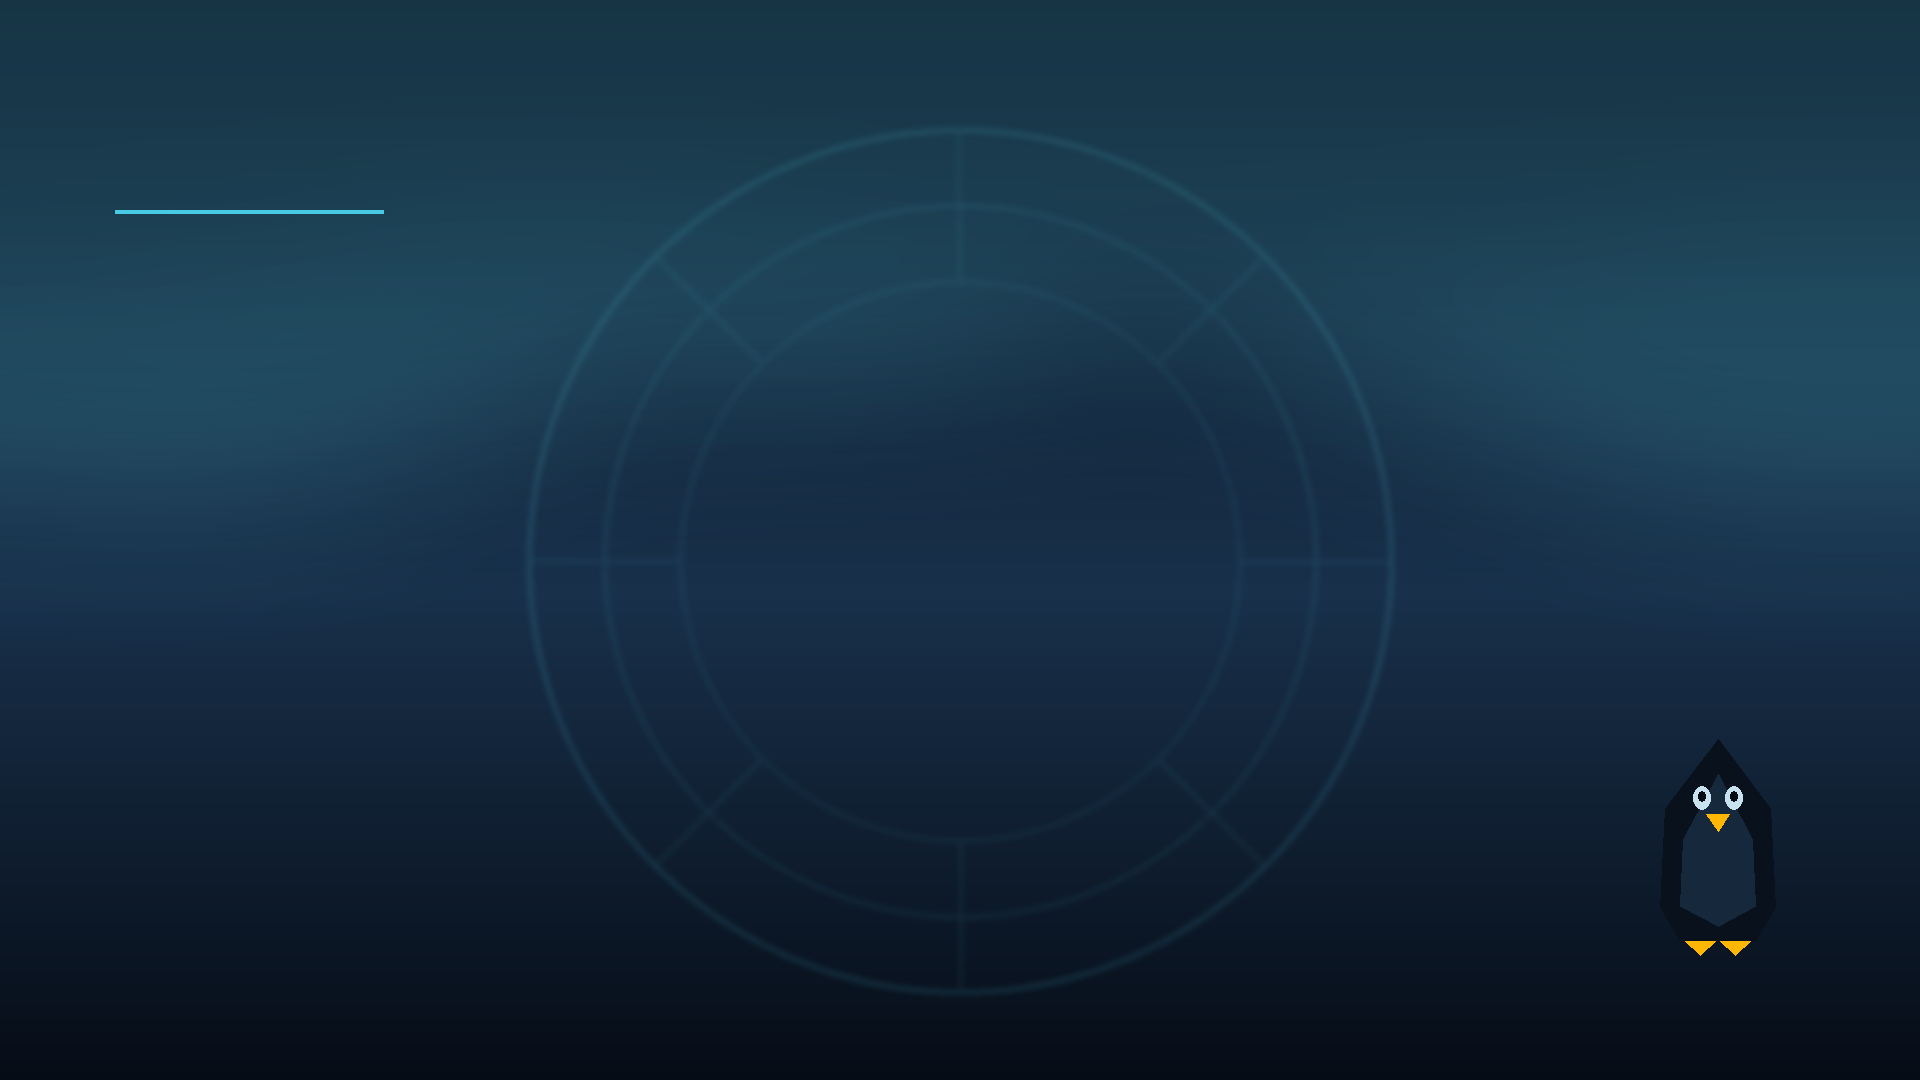
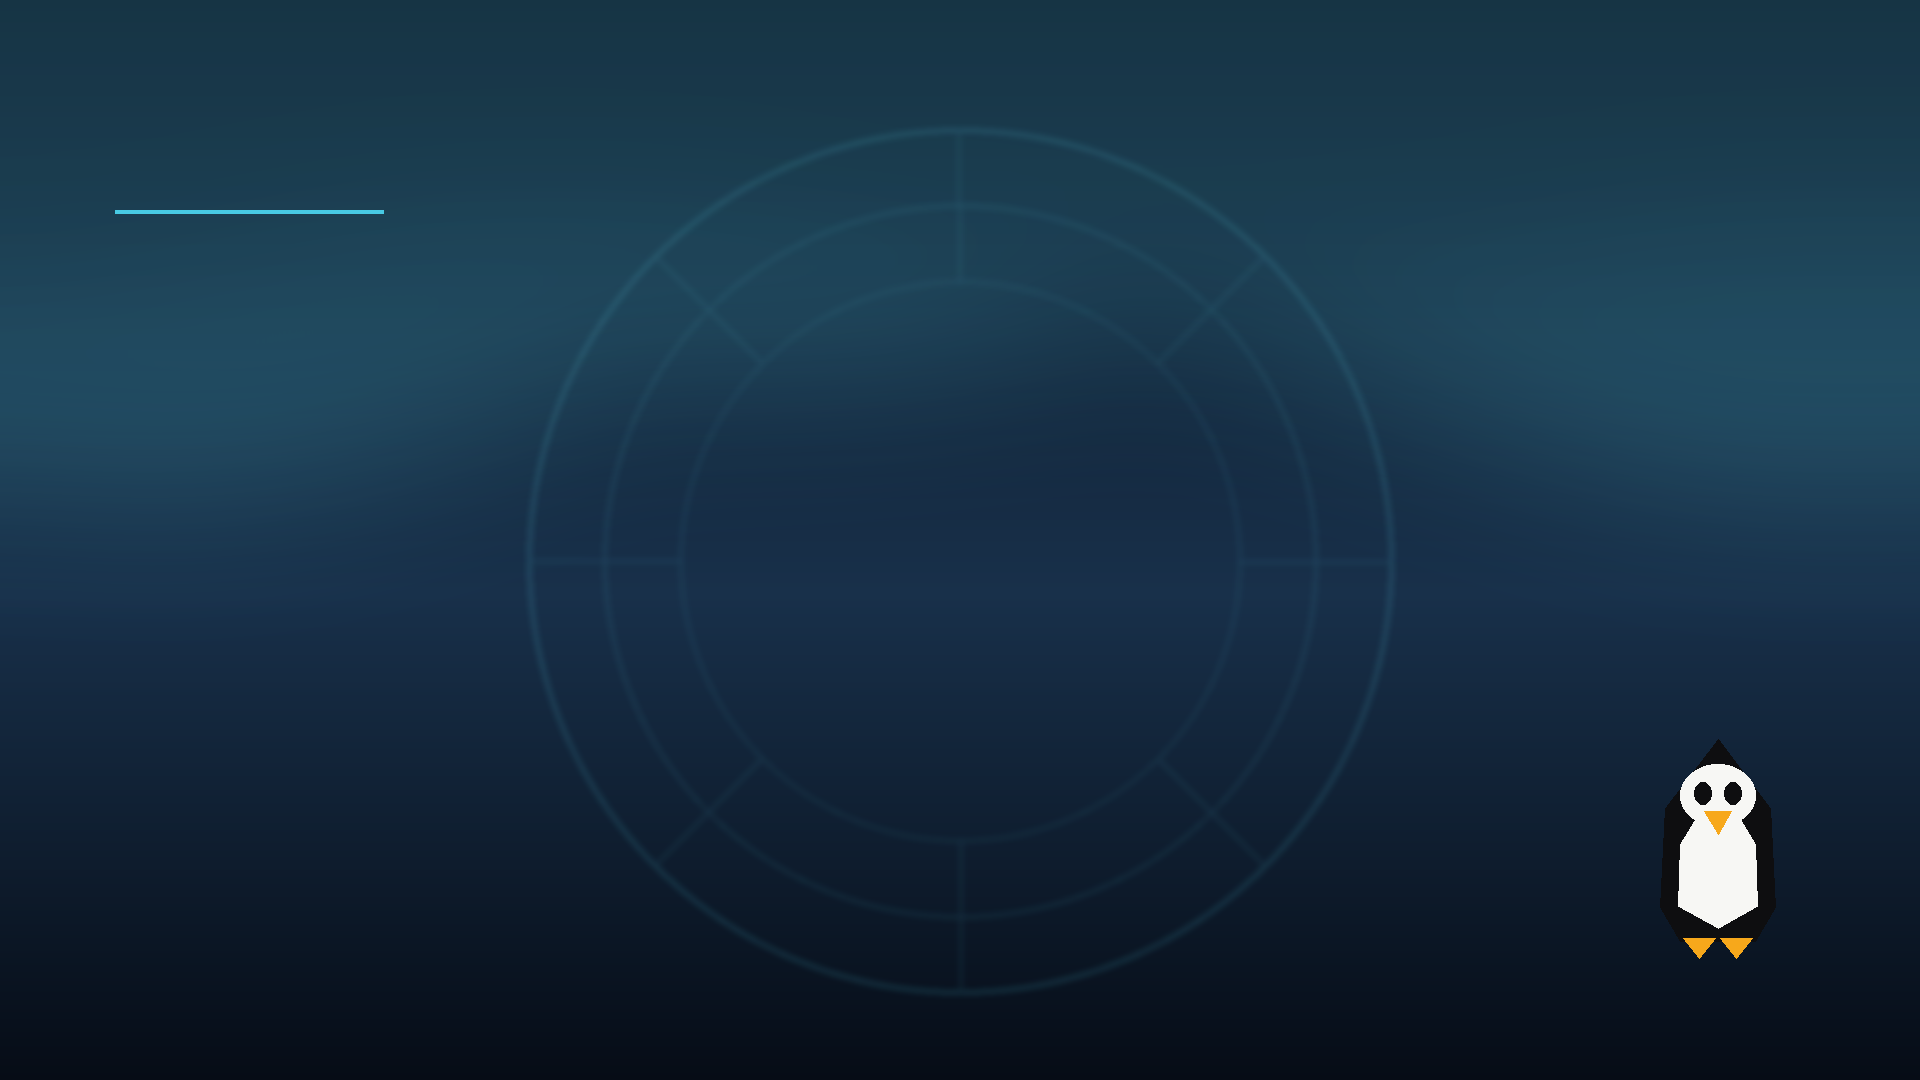
Enable TreeMode so folders show as submenus; give Tux his real colours
Two things the first pass got wrong.

Folders: Ventoy defaults to ListMode, which flattens every ISO into a
single list and discards the directory structure the drive is organised
into. apply.sh now sets VTOY_DEFAULT_MENU_MODE=1 and
VTOY_TREE_VIEW_MENU_STYLE=1 so directories become browsable submenus. Only
set when absent, so a deliberate ListMode choice survives a re-run.

Penguin: he was drawn in the theme's blues, which made him a blue-on-blue
smudge rather than Tux. Now black #0e0e10 / white #f7f7f4 / orange #f7a81b.
Two ordering details that matter: he is composited *after* the vignette,
which would otherwise grey down his white front since he sits near the
darkened edge, and the linux/unknown icon tiles are now light, because a
black penguin on the dark tiles the other icons use is invisible.

Preview regenerated to show the folder tree rather than a flat list.

Verified on hardware: 7/7 checks, including asserting the Tux palette is
actually present in both the icon and the background crop.

Changed region(s): [[0.875, 0.7028, 0.9375, 0.8861]]

diff --git a/scripts/make_background.py b/scripts/make_background.py
@@ -81,38 +81,58 @@ for ang in range(0, 360, 45):
 glow(vault, 3, 0.5)
 d = ImageDraw.Draw(img)
 
-# Penguin mark, bottom-right: simple geometric silhouette, understated.
+# Penguin mark, bottom-right — Tux's colours: black body, white front,
+# orange beak and feet. Drawn on its own RGBA layer so the black body stays
+# black instead of being lifted by the glow passes underneath it.
+TUX_BLACK = (14, 14, 16, 255)
+TUX_WHITE = (247, 247, 244, 255)
+TUX_ORANGE = (247, 168, 27, 255)
+
 px, py, s = int(W * 0.895), int(H * 0.80), H * 0.115
-body = [
-    (px, py - s),
-    (px + s * 0.42, py - s * 0.45),
-    (px + s * 0.46, py + s * 0.35),
-    (px + s * 0.30, py + s * 0.62),
-    (px - s * 0.30, py + s * 0.62),
-    (px - s * 0.46, py + s * 0.35),
-    (px - s * 0.42, py - s * 0.45),
-]
-d.polygon(body, fill=(9, 17, 28))
-d.polygon(
+tux = Image.new("RGBA", (W, H), (0, 0, 0, 0))
+td = ImageDraw.Draw(tux)
+
+# Body.
+td.polygon(
     [
-        (px, py - s * 0.72),
-        (px + s * 0.28, py - s * 0.20),
-        (px + s * 0.30, py + s * 0.34),
-        (px, py + s * 0.50),
-        (px - s * 0.30, py + s * 0.34),
-        (px - s * 0.28, py - s * 0.20),
+        (px, py - s),
+        (px + s * 0.42, py - s * 0.45),
+        (px + s * 0.46, py + s * 0.35),
+        (px + s * 0.30, py + s * 0.62),
+        (px - s * 0.30, py + s * 0.62),
+        (px - s * 0.46, py + s * 0.35),
+        (px - s * 0.42, py - s * 0.45),
     ],
-    fill=(22, 40, 60),
+    fill=TUX_BLACK,
 )
-# Eyes + beak.
-d.ellipse([px - s * 0.20, py - s * 0.62, px - s * 0.06, py - s * 0.44], fill=(200, 226, 240))
-d.ellipse([px + s * 0.06, py - s * 0.62, px + s * 0.20, py - s * 0.44], fill=(200, 226, 240))
-d.ellipse([px - s * 0.16, py - s * 0.58, px - s * 0.10, py - s * 0.50], fill=(6, 12, 20))
-d.ellipse([px + s * 0.10, py - s * 0.58, px + s * 0.16, py - s * 0.50], fill=(6, 12, 20))
-d.polygon([(px - s * 0.09, py - s * 0.40), (px + s * 0.09, py - s * 0.40), (px, py - s * 0.26)], fill=AMBER)
+# White front.
+td.polygon(
+    [
+        (px, py - s * 0.66),
+        (px + s * 0.30, py - s * 0.16),
+        (px + s * 0.32, py + s * 0.34),
+        (px, py + s * 0.52),
+        (px - s * 0.32, py + s * 0.34),
+        (px - s * 0.30, py - s * 0.16),
+    ],
+    fill=TUX_WHITE,
+)
+# White face patch, so the eyes sit on white rather than black.
+td.ellipse([px - s * 0.30, py - s * 0.80, px + s * 0.30, py - s * 0.30], fill=TUX_WHITE)
+# Eyes.
+td.ellipse([px - s * 0.19, py - s * 0.66, px - s * 0.05, py - s * 0.48], fill=TUX_BLACK)
+td.ellipse([px + s * 0.05, py - s * 0.66, px + s * 0.19, py - s * 0.48], fill=TUX_BLACK)
+# Beak.
+td.polygon([(px - s * 0.11, py - s * 0.42), (px + s * 0.11, py - s * 0.42), (px, py - s * 0.24)],
+           fill=TUX_ORANGE)
 # Feet.
-d.polygon([(px - s * 0.26, py + s * 0.62), (px - s * 0.02, py + s * 0.62), (px - s * 0.14, py + s * 0.74)], fill=AMBER)
-d.polygon([(px + s * 0.02, py + s * 0.62), (px + s * 0.26, py + s * 0.62), (px + s * 0.14, py + s * 0.74)], fill=AMBER)
+td.polygon([(px - s * 0.28, py + s * 0.60), (px - s * 0.02, py + s * 0.60), (px - s * 0.15, py + s * 0.76)],
+           fill=TUX_ORANGE)
+td.polygon([(px + s * 0.02, py + s * 0.60), (px + s * 0.28, py + s * 0.60), (px + s * 0.15, py + s * 0.76)],
+           fill=TUX_ORANGE)
+
+# NB: not composited yet — the vignette below would grey down Tux's white
+# front, since he sits near the darkened right edge. He goes on last.
 
 # Thin ice rule dividing the wordmark block from the menu. Sits at 19.5%:
 # below the subtitle (theme.txt puts it at 15%) and above the first menu
@@ -126,6 +146,9 @@ vd2 = ImageDraw.Draw(vig)
 vd2.ellipse([-int(W * 0.45), -int(H * 0.60), int(W * 1.45), int(H * 1.60)], fill=255)
 vig = vig.filter(ImageFilter.GaussianBlur(220))
 img = Image.composite(img, Image.eval(img, lambda v: int(v * 0.55)), vig)
+
+# Tux goes on after the vignette so his white front stays white.
+img = Image.alpha_composite(img.convert("RGBA"), tux).convert("RGB")
 
 img.save(OUT, "PNG", optimize=True)
 print(f"wrote {OUT} ({W}x{H})")

diff --git a/scripts/make_preview.py b/scripts/make_preview.py
@@ -34,18 +34,16 @@ def font(path, size):
         return ImageFont.load_default()
 
 
-# Menu entries: (label, icon class). Mirrors a real drive's contents.
+# Menu entries: (label, icon class). TreeMode shows directories as browsable
+# submenus, so the top level is folders — this mirrors that.
 ENTRIES = [
-    ("archlinux-2026.08.01-x86_64.iso", "arch"),
-    ("debian-13.6.0-amd64-netinst.iso", "debian"),
-    ("Fedora-Workstation-Live-44-1.7.x86_64.iso", "fedora"),
-    ("ubuntu-26.04-desktop-amd64.iso", "ubuntu"),
-    ("linuxmint-22.3-cinnamon-64bit.iso", "mint"),
-    ("kali-linux-2026.2-installer-amd64.iso", "kali"),
-    ("blackarch-linux-full-2023.04.01-x86_64.iso", "blackarch"),
-    ("Qubes-R4.3.1-x86_64.iso", "qubes"),
-    ("nixos-graphical-26.05-x86_64-linux.iso", "nixos"),
-    ("proxmox-ve_9.2-1.iso", "proxmox"),
+    ("easy for begginers/", "dir"),
+    ("for metsure linux users/", "dir"),
+    ("security focused distros/", "dir"),
+    ("server focused distros/", "dir"),
+    ("Strange distros/", "dir"),
+    ("the trio of linux/", "dir"),
+    ("vonarability search focused distros/", "dir"),
     ("Win11_25H2_English_x64_v2.iso", "windows"),
 ]
 SELECTED = 5
@@ -78,10 +76,20 @@ for i, (label, cls) in enumerate(ENTRIES):
     if selected:
         d.rounded_rectangle([left - 10, y - 4, left + W * 0.58, y + item_h + 2],
                             radius=6, fill=(20, 40, 62))
-    ipath = os.path.join(THEME, "icons", f"{cls}.png")
-    if os.path.isfile(ipath):
-        ic = Image.open(ipath).convert("RGBA").resize((icon_sz, icon_sz), Image.LANCZOS)
-        img.paste(ic, (int(left), int(y + (item_h - icon_sz) / 2)), ic)
+    iy = int(y + (item_h - icon_sz) / 2)
+    if cls == "dir":
+        # Folder glyph, drawn rather than shipped — GRUB renders directories
+        # with its own built-in folder icon in TreeMode.
+        fx = int(left)
+        d.rounded_rectangle([fx, iy + 6, fx + icon_sz, iy + icon_sz - 1], radius=3,
+                            fill="#3f6d8c" if not selected else "#a9762a")
+        d.rounded_rectangle([fx, iy + 1, fx + int(icon_sz * 0.45), iy + 10], radius=2,
+                            fill="#4f83a5" if not selected else "#c4892f")
+    else:
+        ipath = os.path.join(THEME, "icons", f"{cls}.png")
+        if os.path.isfile(ipath):
+            ic = Image.open(ipath).convert("RGBA").resize((icon_sz, icon_sz), Image.LANCZOS)
+            img.paste(ic, (int(left), iy), ic)
     d.text((left + icon_sz + icon_gap, y + item_h / 2), label,
            font=f_item, fill=SEL if selected else ITEM, anchor="lm")
 

diff --git a/scripts/make_icons.py b/scripts/make_icons.py
@@ -151,12 +151,35 @@ def server_stack(d, col=INK):
         d.rounded_rectangle([C - w / 2, y, C + w / 2, y + h], radius=h * 0.3, fill=col)
 
 
-def penguin(d, col=INK):
+TUX_BLACK = (14, 14, 16, 255)
+TUX_WHITE = (247, 247, 244, 255)
+TUX_ORANGE = (247, 168, 27, 255)
+
+
+def penguin(d, col=None):
+    """Tux: black body, white front and face, orange beak and feet.
+
+    Drawn on the light tile defined in ICONS — a black penguin on the dark
+    tiles the other icons use would be a silhouette of nothing.
+    """
     s = S * SS * 0.30
-    d.ellipse([C - s * 0.72, C - s, C + s * 0.72, C + s], fill=col)
-    d.ellipse([C - s * 0.44, C - s * 0.42, C + s * 0.44, C + s * 0.86], fill=(20, 34, 52, 255))
-    d.polygon([(C - s * 0.16, C - s * 0.38), (C + s * 0.16, C - s * 0.38), (C, C - s * 0.10)],
-              fill=(255, 183, 3, 255))
+    # Body.
+    d.ellipse([C - s * 0.74, C - s * 0.98, C + s * 0.74, C + s * 0.92], fill=TUX_BLACK)
+    # White front.
+    d.ellipse([C - s * 0.46, C - s * 0.30, C + s * 0.46, C + s * 0.86], fill=TUX_WHITE)
+    # White face.
+    d.ellipse([C - s * 0.44, C - s * 0.80, C + s * 0.44, C - s * 0.16], fill=TUX_WHITE)
+    # Eyes.
+    d.ellipse([C - s * 0.26, C - s * 0.66, C - s * 0.08, C - s * 0.42], fill=TUX_BLACK)
+    d.ellipse([C + s * 0.08, C - s * 0.66, C + s * 0.26, C - s * 0.42], fill=TUX_BLACK)
+    # Beak.
+    d.polygon([(C - s * 0.17, C - s * 0.36), (C + s * 0.17, C - s * 0.36), (C, C - s * 0.10)],
+              fill=TUX_ORANGE)
+    # Feet.
+    d.polygon([(C - s * 0.50, C + s * 0.86), (C - s * 0.06, C + s * 0.86), (C - s * 0.28, C + s * 1.10)],
+              fill=TUX_ORANGE)
+    d.polygon([(C + s * 0.06, C + s * 0.86), (C + s * 0.50, C + s * 0.86), (C + s * 0.28, C + s * 1.10)],
+              fill=TUX_ORANGE)
 
 
 def cat_ears(d, col=INK):
@@ -228,9 +251,10 @@ ICONS = {
     "nyarch":        ((203, 116, 190), cat_ears),
     "veloguard":     ((45, 106, 120),  shield),
     "security":      ((45, 106, 120),  shield),
-    "linux":         ((38, 52, 70),    penguin),
+    # Tux tiles are light so the black body reads; the rest stay dark.
+    "linux":         ((226, 234, 241), penguin),
     "vtoyret":       ((38, 52, 70),    circle_o),
-    "unknown":       ((38, 52, 70),    penguin),
+    "unknown":       ((226, 234, 241), penguin),
     "penguinvault":  ((13, 27, 42),    vault_lock),
 }
 

diff --git a/README.md b/README.md
@@ -28,9 +28,13 @@ housekeeping around it.
 ./scripts/apply.sh /run/media/$USER/Ventoy
 ```
 
-Installs the theme and wires up the icon rules. Your ISOs, persistence
-config, and any other `ventoy.json` settings are merged, not overwritten —
-re-running is safe and produces no duplicates.
+Installs the theme, wires up the icon rules, and switches Ventoy into
+**TreeMode** so the folders you organised the drive into show up as
+browsable submenus. (Ventoy's default is ListMode, which flattens every ISO
+into one long list and ignores your directory structure entirely.) Your
+ISOs, persistence config, and any other `ventoy.json` settings are merged,
+not overwritten — re-running is safe and produces no duplicates, and an
+existing menu-mode choice is left alone.
 
 To also rename the volume (needs root, because relabelling requires the
 volume unmounted):
@@ -78,10 +82,16 @@ in place.
 ## Theme
 
 Polar night: deep blue gradient, a faint vault-door ring behind the menu, an
-aurora wash, and a small penguin mark. Ice cyan `#48cae4` for structure,
+aurora wash, and Tux in the corner. Ice cyan `#48cae4` for structure,
 amber `#ffb703` for the selected entry — amber because it stays legible
 against the blue for the most common forms of colour blindness, where a
 green highlight would not.
+
+Tux keeps his own palette rather than being tinted to match the theme —
+black `#0e0e10`, white `#f7f7f4`, orange `#f7a81b`. He's composited after
+the vignette so the white front doesn't get greyed down, and the `linux`
+and `unknown` icon tiles are light for the same reason: a black penguin on
+a dark tile is a silhouette of nothing.
 
 Everything is generated by the scripts in `scripts/`, so you can restyle it
 without trusting an opaque image:
